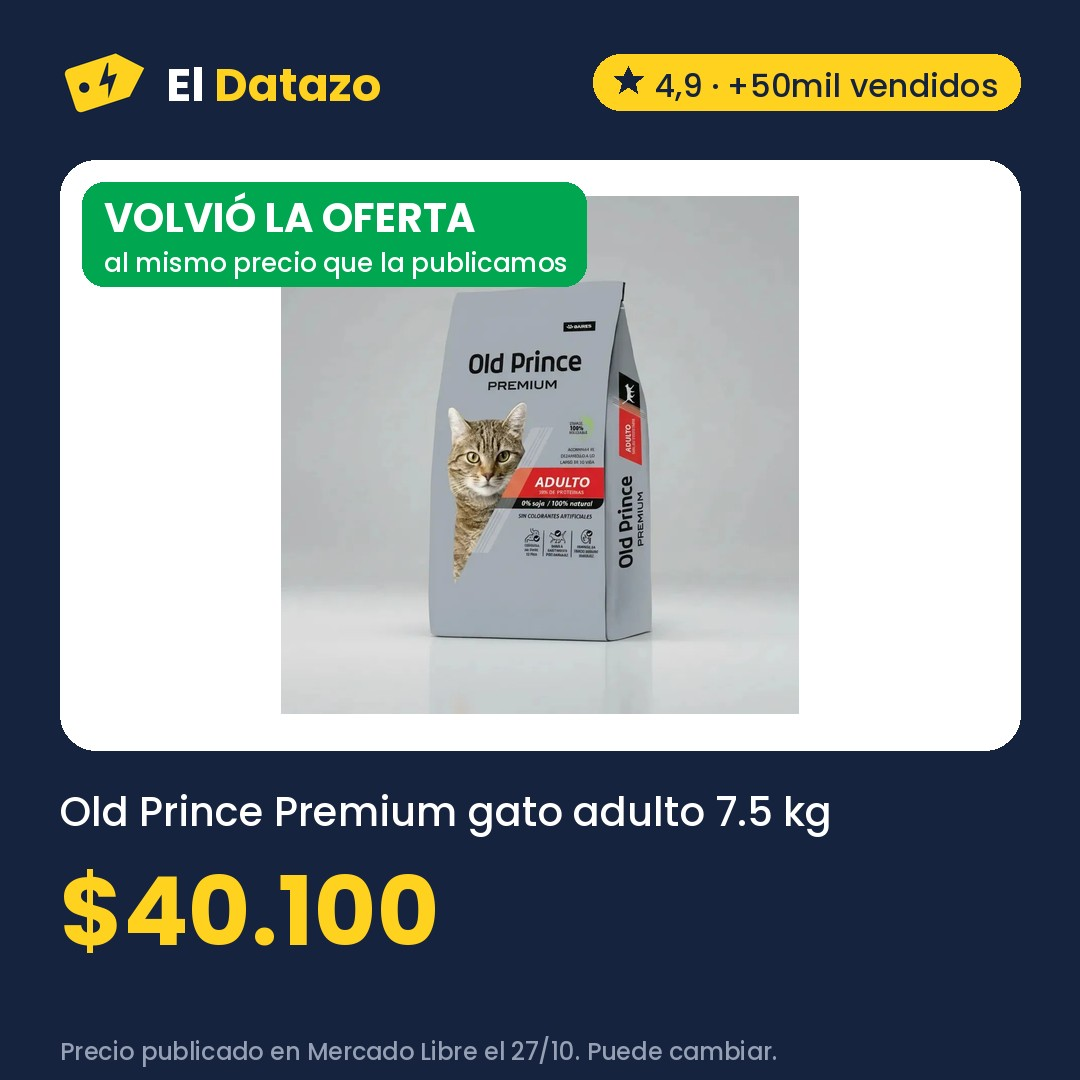
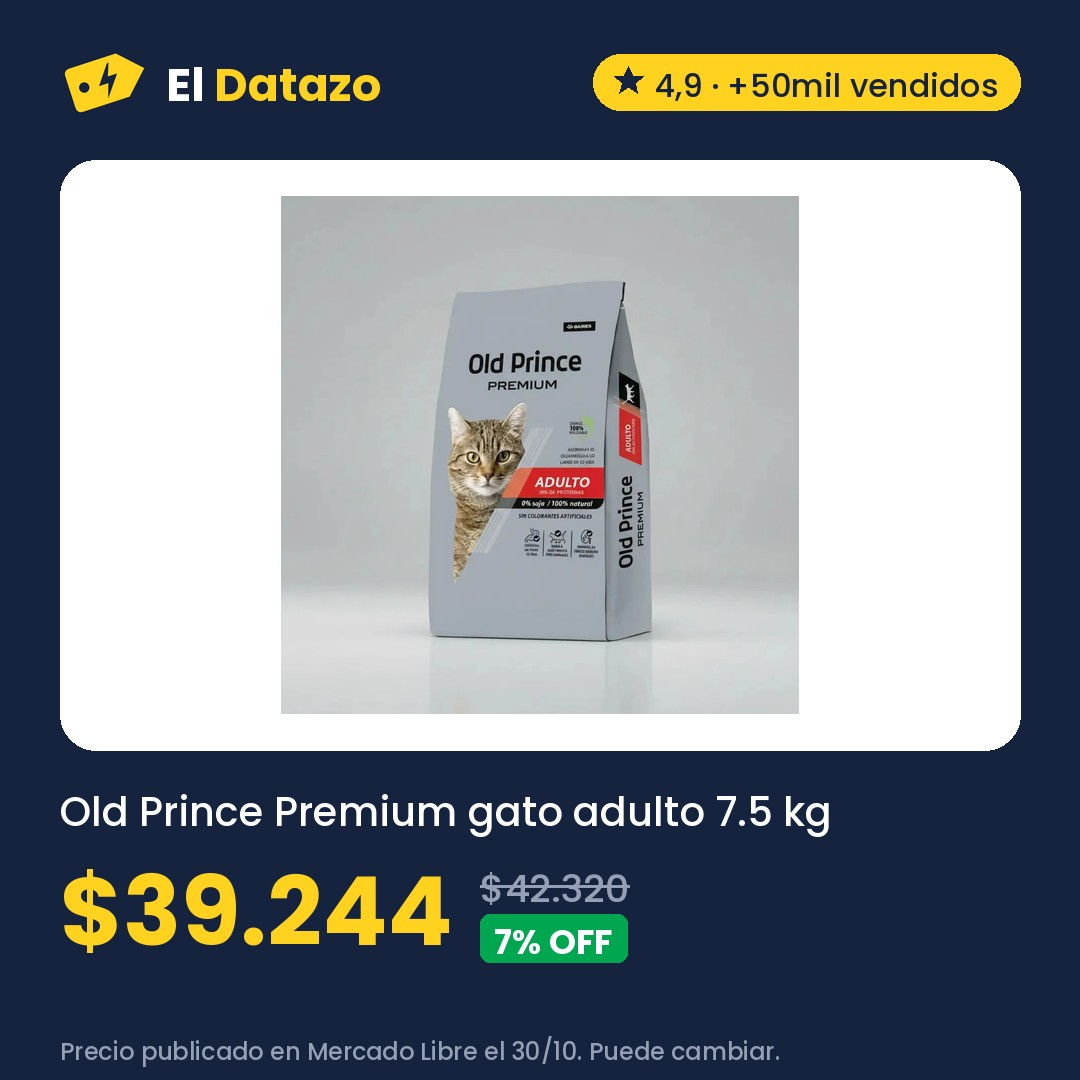
Ofertas 2026-10-30 19:33

Changed region(s): [[0.0611, 0.1528, 0.55, 0.275], [0.1222, 0.7944, 0.5806, 0.9167], [0.4889, 0.9472, 0.7028, 1.0]]

diff --git a/index.html b/index.html
@@ -293,7 +293,7 @@ padding:3px 9px;border-radius:999px}
       <p class="hero-precio">$50.749</p>
       <p class="hero-antes"><s>$108.499</s> <span class="off">53% OFF</span></p>
       <p class="bajo pastilla"><b>⬇ Volvió</b> · Había terminado y volvió al mismo precio</p>
-      <p class="nota">Precio del 28/10 en Mercado Libre, revisado hoy a las 11:31. Puede cambiar.</p>
+      <p class="nota">Precio del 28/10 en Mercado Libre, revisado hoy a las 16:33. Puede cambiar.</p>
       <a class="boton oscuro" href="https://meli.la/1HyqnAD" rel="sponsored noopener" target="_blank"
          data-oferta="MLA22130330">Ver oferta en Mercado Libre</a>
       <a class="compartir" href="https://wa.me/?text=Mir%C3%A1%20este%20datazo%3A%20Buclera%20de%20Pelo%20Gadnic%20B3000%20Rizador%203%20Tubos%2025%20mm%20150W%20180%20210%20C%20a%20%2450.749%20https%3A//eldatazo.com.ar/%23MLA22130330" target="_blank" rel="noopener" data-estilo="texto"><svg viewBox="0 0 24 24" width="16" height="16" aria-hidden="true"><path d="M4 20l1.3-4A8 8 0 1 1 8 18.7L4 20z" fill="none" stroke="currentColor" stroke-width="2" stroke-linejoin="round"/></svg> Compartir por WhatsApp</a>
@@ -314,7 +314,7 @@ padding:3px 9px;border-radius:999px}
         <li><a href="#MLA22130330"><img src="img/MLA22130330.jpg" alt="" loading="lazy">
           <span><b>Buclera de Pelo Gadnic B3000 Rizador 3 Tubos 25 mm 150W 180 210 C</b><span class="ahora">$50.749</span> <span class="bajo">⬇ Volvió</span></span></a></li>
         <li><a href="#MLA25363194"><img src="img/MLA25363194.jpg" alt="" loading="lazy">
-          <span><b>Old Prince Premium gato adulto 7.5 kg</b><span class="ahora">$40.100</span> <span class="bajo">⬇ Volvió</span></span></a></li>
+          <span><b>Old Prince Premium gato adulto 7.5 kg</b><span class="ahora">$39.244</span> <span class="bajo">⬇ Volvió</span></span></a></li>
         <li><a href="https://meli.la/2bhn3SU" rel="sponsored noopener" target="_blank" data-oferta="MLA29031346"><img src="https://http2.mlstatic.com/D_Q_NP_930271-MLA99501053204_112025-AB.webp" alt="" loading="lazy" referrerpolicy="no-referrer">
           <span><b>Kit X 2 Handy Baofeng Radio Walkie Talkie Bf888s 16ch Uhf Bandas de frecuencia 16 Color Negro</b><span class="ahora">$31.448</span><s>$45.000</s>
           <span class="bajo">⬇ Bajó</span></span></a></li>
@@ -365,7 +365,7 @@ padding:3px 9px;border-radius:999px}
           <h3>Figuritas Panini X 25 Sobres World Cup 2026 Mundial 2026</h3>
           <p class="precios "><span class="precio">$41.848</span></p>
           <p class="bajo">Antes $48.980 el 28/10 · 15% menos</p>
-          <p class="nota">Precio de hoy a las 11:31 en Mercado Libre. Puede cambiar.</p>
+          <p class="nota">Precio de hoy a las 16:33 en Mercado Libre. Puede cambiar.</p>
           <div class="acciones">
             <a class="boton" href="https://meli.la/1qNpAcw" rel="sponsored noopener" target="_blank"
                data-oferta="MLA69121337">Ver oferta</a>
@@ -383,7 +383,7 @@ padding:3px 9px;border-radius:999px}
           <h3>Bomba Periferica Elevadora Agua Vasser 1/2 Hp 20mts caudal 30 l/m</h3>
           <p class="precios "><span class="precio">$41.159</span><s class="antes">$51.449</s><span class="off">20% OFF</span></p>
           <p class="bajo">Había terminado y volvió al mismo precio</p>
-          <p class="nota">Precio de hoy a las 11:31 en Mercado Libre. Puede cambiar.</p>
+          <p class="nota">Precio de hoy a las 16:33 en Mercado Libre. Puede cambiar.</p>
           <div class="acciones">
             <a class="boton" href="https://meli.la/2nztThe" rel="sponsored noopener" target="_blank"
                data-oferta="MLA19576694">Ver oferta</a>
@@ -401,7 +401,7 @@ padding:3px 9px;border-radius:999px}
           <h3>Pañales Pampers deluxe protection XXG x 54 unidades</h3>
           <p class="precios "><span class="precio">$42.008</span><s class="antes">$50.000</s><span class="off">16% OFF</span></p>
           <p class="bajo">Había terminado y volvió al mismo precio</p>
-          <p class="nota">Precio del 29/10 en Mercado Libre, revisado hoy a las 11:31. Puede cambiar.</p>
+          <p class="nota">Precio del 29/10 en Mercado Libre, revisado hoy a las 16:33. Puede cambiar.</p>
           <div class="acciones">
             <a class="boton" href="https://meli.la/2kAwAe6" rel="sponsored noopener" target="_blank"
                data-oferta="MLA28052339">Ver oferta</a>
@@ -410,20 +410,20 @@ padding:3px 9px;border-radius:999px}
           </div>
         </div>
       </article>
-      <article class="tarjeta destacada" id="MLA25363194" data-rubro="MLA1071" data-off="0" data-pub="2026-10-27" data-quedan="4" data-precio="40100" data-bajo="1" data-texto="old prince premium gato adulto 7.5 kg">
+      <article class="tarjeta destacada" id="MLA25363194" data-rubro="MLA1071" data-off="7" data-pub="2026-10-27" data-quedan="4" data-precio="39244" data-bajo="1" data-texto="old prince premium gato adulto 7.5 kg">
         <div class="tarjeta-foto">
           <img src="img/MLA25363194.jpg" alt="Old Prince Premium gato adulto 7.5 kg" loading="lazy" width="1080" height="1080">
         </div>
         <div class="cuerpo">
           <div class="fila"><span class="sello baja">⬇ Volvió</span><span class="sello">Quedan 4 días</span><span class="rubro">Mascotas</span></div>
           <h3>Old Prince Premium gato adulto 7.5 kg</h3>
-          <p class="precios "><span class="precio">$40.100</span></p>
+          <p class="precios "><span class="precio">$39.244</span><s class="antes">$42.320</s><span class="off">7% OFF</span></p>
           <p class="bajo">Había terminado y volvió al mismo precio</p>
-          <p class="nota">Precio del 27/10 en Mercado Libre, revisado hoy a las 11:31. Puede cambiar.</p>
+          <p class="nota">Precio de hoy a las 16:33 en Mercado Libre. Puede cambiar.</p>
           <div class="acciones">
             <a class="boton" href="https://meli.la/2zmmmFA" rel="sponsored noopener" target="_blank"
                data-oferta="MLA25363194">Ver oferta</a>
-            <a class="compartir" href="https://wa.me/?text=Mir%C3%A1%20este%20datazo%3A%20Old%20Prince%20Premium%20gato%20adulto%207.5%20kg%20a%20%2440.100%20https%3A//eldatazo.com.ar/%23MLA25363194" target="_blank" rel="noopener"
+            <a class="compartir" href="https://wa.me/?text=Mir%C3%A1%20este%20datazo%3A%20Old%20Prince%20Premium%20gato%20adulto%207.5%20kg%20a%20%2439.244%20https%3A//eldatazo.com.ar/%23MLA25363194" target="_blank" rel="noopener"
                aria-label="Compartir por WhatsApp" title="Compartir por WhatsApp"><svg viewBox="0 0 24 24" width="16" height="16" aria-hidden="true"><path d="M4 20l1.3-4A8 8 0 1 1 8 18.7L4 20z" fill="none" stroke="currentColor" stroke-width="2" stroke-linejoin="round"/></svg></a>
           </div>
         </div>
@@ -437,7 +437,7 @@ padding:3px 9px;border-radius:999px}
           <h3>Colchón Inflable Doble Klimber + Inflador + 2 Almohadas</h3>
           <p class="precios "><span class="precio">$45.777</span><s class="antes">$69.499</s><span class="off">34% OFF</span></p>
           
-          <p class="nota">Precio del 26/10 en Mercado Libre, revisado hoy a las 11:31. Puede cambiar.</p>
+          <p class="nota">Precio del 26/10 en Mercado Libre, revisado hoy a las 16:33. Puede cambiar.</p>
           <div class="acciones">
             <a class="boton" href="https://meli.la/19eMhmv" rel="sponsored noopener" target="_blank"
                data-oferta="MLA22764635">Ver oferta</a>
@@ -455,7 +455,7 @@ padding:3px 9px;border-radius:999px}
           <h3>Rotuladora Portátil Niimbot Etiquetadora Manual Impresora Color Blanco D110</h3>
           <p class="precios "><span class="precio">$41.040</span><s class="antes">$58.900</s><span class="off">30% OFF</span></p>
           
-          <p class="nota">Precio del 26/10 en Mercado Libre, revisado hoy a las 11:31. Puede cambiar.</p>
+          <p class="nota">Precio del 26/10 en Mercado Libre, revisado hoy a las 16:33. Puede cambiar.</p>
           <div class="acciones">
             <a class="boton" href="https://meli.la/1czSFp6" rel="sponsored noopener" target="_blank"
                data-oferta="MLA45260672">Ver oferta</a>
@@ -473,7 +473,7 @@ padding:3px 9px;border-radius:999px}
           <h3>Bomba Pluvius Presurizadora 100 W Automática 2 Baños</h3>
           <p class="precios "><span class="precio">$62.006</span><s class="antes">$81.899</s><span class="off">24% OFF</span></p>
           <p class="bajo">Antes $66.659 el 24/10 · 7% menos</p>
-          <p class="nota">Precio del 27/10 en Mercado Libre, revisado hoy a las 11:31. Puede cambiar.</p>
+          <p class="nota">Precio del 27/10 en Mercado Libre, revisado hoy a las 16:33. Puede cambiar.</p>
           <div class="acciones">
             <a class="boton" href="https://meli.la/2a5DkY2" rel="sponsored noopener" target="_blank"
                data-oferta="MLA19974075">Ver oferta</a>
@@ -491,7 +491,7 @@ padding:3px 9px;border-radius:999px}
           <h3>Equipo Pistola Pintar Eléctrica Latex 450w TOTAL Acabado Profesional sin Esfuerzo</h3>
           <p class="precios "><span class="precio">$56.340</span><s class="antes">$105.990</s><span class="off">47% OFF</span></p>
           
-          <p class="nota">Precio del 24/10 en Mercado Libre, revisado hoy a las 11:31. Puede cambiar.</p>
+          <p class="nota">Precio del 24/10 en Mercado Libre, revisado hoy a las 16:33. Puede cambiar.</p>
           <div class="acciones">
             <a class="boton" href="https://meli.la/2TeggF7" rel="sponsored noopener" target="_blank"
                data-oferta="MLA22620660">Ver oferta</a>
@@ -509,7 +509,7 @@ padding:3px 9px;border-radius:999px}
           <h3>Pintura Latex Ingenia X 20 L Interior Exterior Cubritiva - Blanco</h3>
           <p class="precios "><span class="precio">$32.999</span><s class="antes">$69.999</s><span class="off">53% OFF</span></p>
           
-          <p class="nota">Precio del 24/10 en Mercado Libre, revisado hoy a las 11:31. Puede cambiar.</p>
+          <p class="nota">Precio del 24/10 en Mercado Libre, revisado hoy a las 16:33. Puede cambiar.</p>
           <div class="acciones">
             <a class="boton" href="https://meli.la/2Gbd1ds" rel="sponsored noopener" target="_blank"
                data-oferta="MLA23521180">Ver oferta</a>
@@ -527,7 +527,7 @@ padding:3px 9px;border-radius:999px}
           <h3>Masajeador Cervical Eléctrico Portatil Inalambrico Batería Recargable Usb Femmto Relajación Cuello Espalda Lumbar</h3>
           <p class="precios "><span class="precio">$70.699</span><s class="antes">$100.000</s><span class="off">29% OFF</span></p>
           
-          <p class="nota">Precio del 22/10 en Mercado Libre, revisado hoy a las 11:31. Puede cambiar.</p>
+          <p class="nota">Precio del 22/10 en Mercado Libre, revisado hoy a las 16:33. Puede cambiar.</p>
           <div class="acciones">
             <a class="boton" href="https://meli.la/2DfwhAa" rel="sponsored noopener" target="_blank"
                data-oferta="MLA24127896">Ver oferta</a>
@@ -545,7 +545,7 @@ padding:3px 9px;border-radius:999px}
           <h3>Taladro Atornillador Inalámbrico Branx Bateria 20v Litio Color Accesorios Maletin HyperBolt20</h3>
           <p class="precios "><span class="precio">$58.999</span><s class="antes">$120.000</s><span class="off">51% OFF</span></p>
           
-          <p class="nota">Precio del 24/10 en Mercado Libre, revisado hoy a las 11:31. Puede cambiar.</p>
+          <p class="nota">Precio del 24/10 en Mercado Libre, revisado hoy a las 16:33. Puede cambiar.</p>
           <div class="acciones">
             <a class="boton" href="https://meli.la/2xk9W87" rel="sponsored noopener" target="_blank"
                data-oferta="MLA24983473">Ver oferta</a>
@@ -563,7 +563,7 @@ padding:3px 9px;border-radius:999px}
           <h3>Bomba Presurizadora Elevadora 2 Baños Presion Kommberg 120w KB-EP120</h3>
           <p class="precios "><span class="precio">$60.021</span><s class="antes">$79.890</s><span class="off">25% OFF</span></p>
           
-          <p class="nota">Precio del 24/10 en Mercado Libre, revisado hoy a las 11:31. Puede cambiar.</p>
+          <p class="nota">Precio del 24/10 en Mercado Libre, revisado hoy a las 16:33. Puede cambiar.</p>
           <div class="acciones">
             <a class="boton" href="https://meli.la/2eMw9XD" rel="sponsored noopener" target="_blank"
                data-oferta="MLA28254149">Ver oferta</a>
@@ -581,7 +581,7 @@ padding:3px 9px;border-radius:999px}
           <h3>Máquina De Cortar Pelo Para Perros Gadnic CP170 Silenciosa 2000 mAh 4 Peines Acero Inoxidable Autonomía 3,5Hr Carga Rápida</h3>
           <p class="precios "><span class="precio">$68.999</span><s class="antes">$118.749</s><span class="off">42% OFF</span></p>
           
-          <p class="nota">Precio del 24/10 en Mercado Libre, revisado hoy a las 11:31. Puede cambiar.</p>
+          <p class="nota">Precio del 24/10 en Mercado Libre, revisado hoy a las 16:33. Puede cambiar.</p>
           <div class="acciones">
             <a class="boton" href="https://meli.la/1eArodH" rel="sponsored noopener" target="_blank"
                data-oferta="MLA28329206">Ver oferta</a>
@@ -599,7 +599,7 @@ padding:3px 9px;border-radius:999px}
           <h3>Compresor De Aire Portátil Gadnic Inflador Neumáticos 50W Presión 150 PSI Caudal 17 L/min Pantalla Dual LCD Corte Automático Linterna LED Accesorios Para Auto Moto Bicicleta Pelotas</h3>
           <p class="precios "><span class="precio">$57.449</span><s class="antes">$105.599</s><span class="off">46% OFF</span></p>
           
-          <p class="nota">Precio del 24/10 en Mercado Libre, revisado hoy a las 11:31. Puede cambiar.</p>
+          <p class="nota">Precio del 24/10 en Mercado Libre, revisado hoy a las 16:33. Puede cambiar.</p>
           <div class="acciones">
             <a class="boton" href="https://meli.la/2ck1cFk" rel="sponsored noopener" target="_blank"
                data-oferta="MLA43472281">Ver oferta</a>
@@ -617,7 +617,7 @@ padding:3px 9px;border-radius:999px}
           <h3>Plastificadora Laminadora A4 Profesional Frio Calor 230 Mm</h3>
           <p class="precios "><span class="precio">$51.465</span><s class="antes">$79.999</s><span class="off">36% OFF</span></p>
           
-          <p class="nota">Precio del 24/10 en Mercado Libre, revisado hoy a las 11:31. Puede cambiar.</p>
+          <p class="nota">Precio del 24/10 en Mercado Libre, revisado hoy a las 16:33. Puede cambiar.</p>
           <div class="acciones">
             <a class="boton" href="https://meli.la/14bVQFh" rel="sponsored noopener" target="_blank"
                data-oferta="MLA43829530">Ver oferta</a>
@@ -635,7 +635,7 @@ padding:3px 9px;border-radius:999px}
           <h3>Cable Tipo Taller 2x2.5 Mm 50mts Cubierta Negro</h3>
           <p class="precios "><span class="precio">$47.219</span></p>
           
-          <p class="nota">Precio del 28/10 en Mercado Libre, revisado hoy a las 11:31. Puede cambiar.</p>
+          <p class="nota">Precio del 28/10 en Mercado Libre, revisado hoy a las 16:33. Puede cambiar.</p>
           <div class="acciones">
             <a class="boton" href="https://meli.la/1aC3rjr" rel="sponsored noopener" target="_blank"
                data-oferta="MLA50107405">Ver oferta</a>
@@ -653,7 +653,7 @@ padding:3px 9px;border-radius:999px}
           <h3>Bloques Magnéticos Para Armar 100 Piezas Construcción Tiles 100</h3>
           <p class="precios "><span class="precio">$63.832</span><s class="antes">$83.990</s><span class="off">24% OFF</span></p>
           
-          <p class="nota">Precio del 24/10 en Mercado Libre, revisado hoy a las 11:31. Puede cambiar.</p>
+          <p class="nota">Precio del 24/10 en Mercado Libre, revisado hoy a las 16:33. Puede cambiar.</p>
           <div class="acciones">
             <a class="boton" href="https://meli.la/2Hc8YtJ" rel="sponsored noopener" target="_blank"
                data-oferta="MLA63335049">Ver oferta</a>
@@ -671,7 +671,7 @@ padding:3px 9px;border-radius:999px}
           <h3>Juego Cubiertas Moto 110 2.50-17+2.75-14 + Camaras</h3>
           <p class="precios "><span class="precio">$60.776</span><s class="antes">$82.983</s><span class="off">27% OFF</span></p>
           
-          <p class="nota">Precio del 24/10 en Mercado Libre, revisado hoy a las 11:31. Puede cambiar.</p>
+          <p class="nota">Precio del 24/10 en Mercado Libre, revisado hoy a las 16:33. Puede cambiar.</p>
           <div class="acciones">
             <a class="boton" href="https://meli.la/1rzdJj3" rel="sponsored noopener" target="_blank"
                data-oferta="MLA63532450">Ver oferta</a>
@@ -1323,7 +1323,7 @@ padding:3px 9px;border-radius:999px}
       <nav class="redes" aria-label="Redes de El Datazo"><a class="red" href="https://www.instagram.com/eldatazo.arg/" target="_blank" rel="noopener"><svg viewBox="0 0 24 24" width="18" height="18" aria-hidden="true"><rect x="3" y="3" width="18" height="18" rx="5" fill="none" stroke="currentColor" stroke-width="2"/><circle cx="12" cy="12" r="4" fill="none" stroke="currentColor" stroke-width="2"/><circle cx="17.5" cy="6.5" r="1.3" fill="currentColor"/></svg> Instagram</a><a class="red" href="https://www.facebook.com/profile.php?id=61595441168911" target="_blank" rel="noopener"><svg viewBox="0 0 24 24" width="18" height="18" aria-hidden="true"><path d="M14 8h3V4h-3a4 4 0 0 0-4 4v2H7v4h3v8h4v-8h3l1-4h-4V8z" fill="currentColor"/></svg> Facebook</a><a class="red" href="https://t.me/eldatazo_ofertas" target="_blank" rel="noopener"><svg viewBox="0 0 24 24" width="18" height="18" aria-hidden="true"><path d="M21 4 3 11l5 2 2 6 3-4 5 4 3-15zM9 13l9-6-7 8" fill="none" stroke="currentColor" stroke-width="1.8" stroke-linejoin="round"/></svg> Telegram</a></nav>
       <p>Los links son de afiliado de Mercado Libre: si comprás, El Datazo puede recibir una comisión, sin que cambie
       tu precio. Los precios son los publicados en Mercado Libre el día indicado y pueden cambiar.</p>
-      <p>Actualizado el 30/10/2026 11:31 (hora argentina) · <a href="privacidad/">Privacidad</a></p>
+      <p>Actualizado el 30/10/2026 16:33 (hora argentina) · <a href="privacidad/">Privacidad</a></p>
     </div>
   </footer>
   
